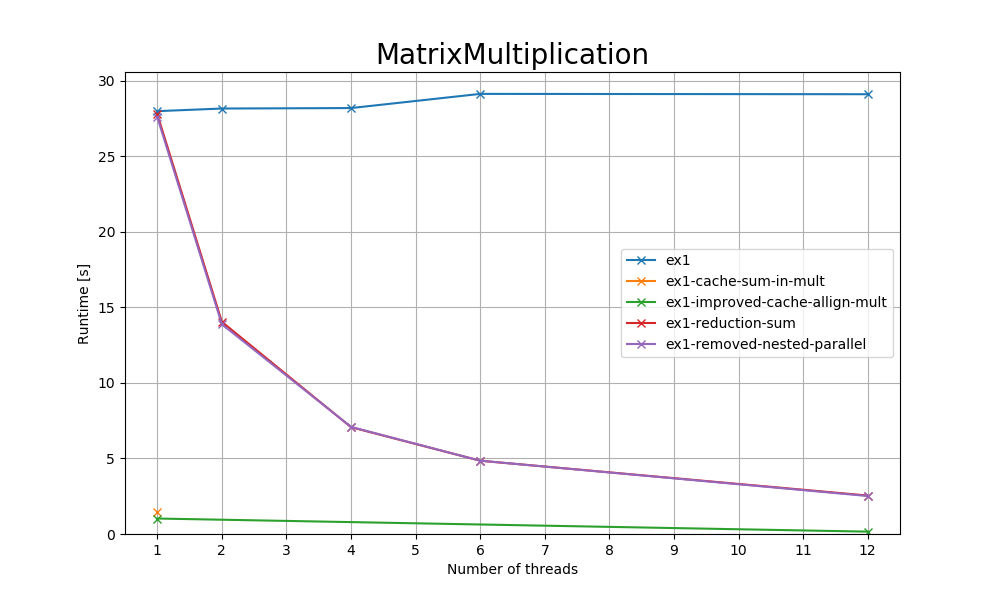
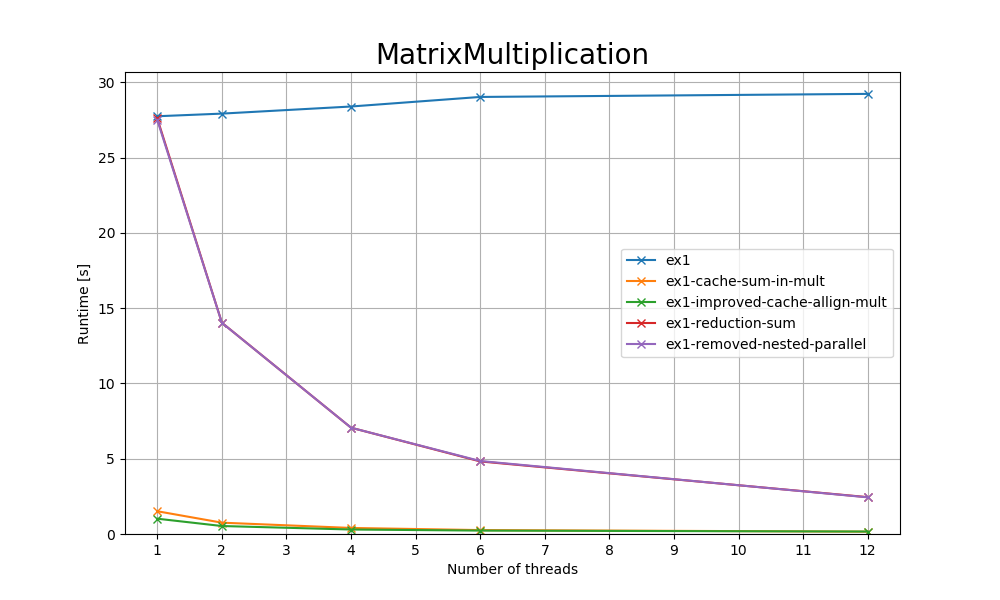
finished ex1 performance improvement

diff --git a/05/ex1/ex1-cache-sum-in-mult.c b/05/ex1/ex1-cache-sum-in-mult.c
@@ -81,8 +81,8 @@ int main(int argc, char **argv) {
 	srand(7);
 	for (long i = 0; i < n; ++i) {
 		for (long j = 0; j < n; ++j) {
-			a[i][j] = 2;
-			b[i][j] = 2;
+			a[i][j] = rand();
+			b[i][j] = rand();
 		}
 	}
 
@@ -97,7 +97,7 @@ int main(int argc, char **argv) {
 
 unsigned long res = 0;
 
-#pragma omp parallel shared(n, a, b, res)
+#pragma omp parallel shared(n, a, b) reduction(+: res)
 	{
 		// matrix multiplication
 #pragma omp for 

diff --git a/05/ex1/ex1-improved-cache-allign-mult.c b/05/ex1/ex1-improved-cache-allign-mult.c
@@ -81,8 +81,8 @@ int main(int argc, char **argv) {
 	srand(7);
 	for (long i = 0; i < n; ++i) {
 		for (long j = 0; j < n; ++j) {
-			a[i][j] = 2;
-			b[i][j] = 2;
+			a[i][j] = rand();
+			b[i][j] = rand();
 		}
 	}
 

diff --git a/05/ex1/ex1-reduction-sum.c b/05/ex1/ex1-reduction-sum.c
@@ -79,8 +79,8 @@ int main(int argc, char **argv) {
 	srand(7);
 	for (long i = 0; i < n; ++i) {
 		for (long j = 0; j < n; ++j) {
-			a[i][j] = 2;
-			b[i][j] = 2;
+			a[i][j] = rand();
+			b[i][j] = rand();
 		}
 	}
 

diff --git a/05/ex1/ex1-removed-nested-parallel.c b/05/ex1/ex1-removed-nested-parallel.c
@@ -79,8 +79,8 @@ int main(int argc, char **argv) {
 	srand(7);
 	for (long i = 0; i < n; ++i) {
 		for (long j = 0; j < n; ++j) {
-			a[i][j] = 2;
-			b[i][j] = 2;
+			a[i][j] = rand();
+			b[i][j] = rand();
 		}
 	}
 

diff --git a/05/ex1/results/MatrixMultiplication.md b/05/ex1/results/MatrixMultiplication.md
@@ -1,7 +1,7 @@
 | num_threads | ex1 | ex1-cache-sum-in-mult | ex1-improved-cache-allign-mult | ex1-reduction-sum | ex1-removed-nested-parallel |
 |---|---|---|---|---|---|
-| 1 | 27.988s | 1.480s | 1.024s | 27.788s | 27.589s |
-| 2 | 28.162s | - | - | 14.042s | 13.883s |
-| 4 | 28.193s | - | - | 7.069s | 7.089s |
-| 6 | 29.131s | - | - | 4.849s | 4.852s |
-| 12 | 29.109s | - | 0.156s | 2.545s | 2.513s |
+| 1 | 27.741s | 1.511s | 1.016s | 27.593s | 27.494s |
+| 2 | 27.916s | 0.752s | 0.530s | 14.030s | 14.024s |
+| 4 | 28.388s | 0.402s | 0.298s | 7.059s | 7.059s |
+| 6 | 29.023s | 0.260s | 0.226s | 4.819s | 4.847s |
+| 12 | 29.226s | 0.157s | 0.163s | 2.447s | 2.434s |
